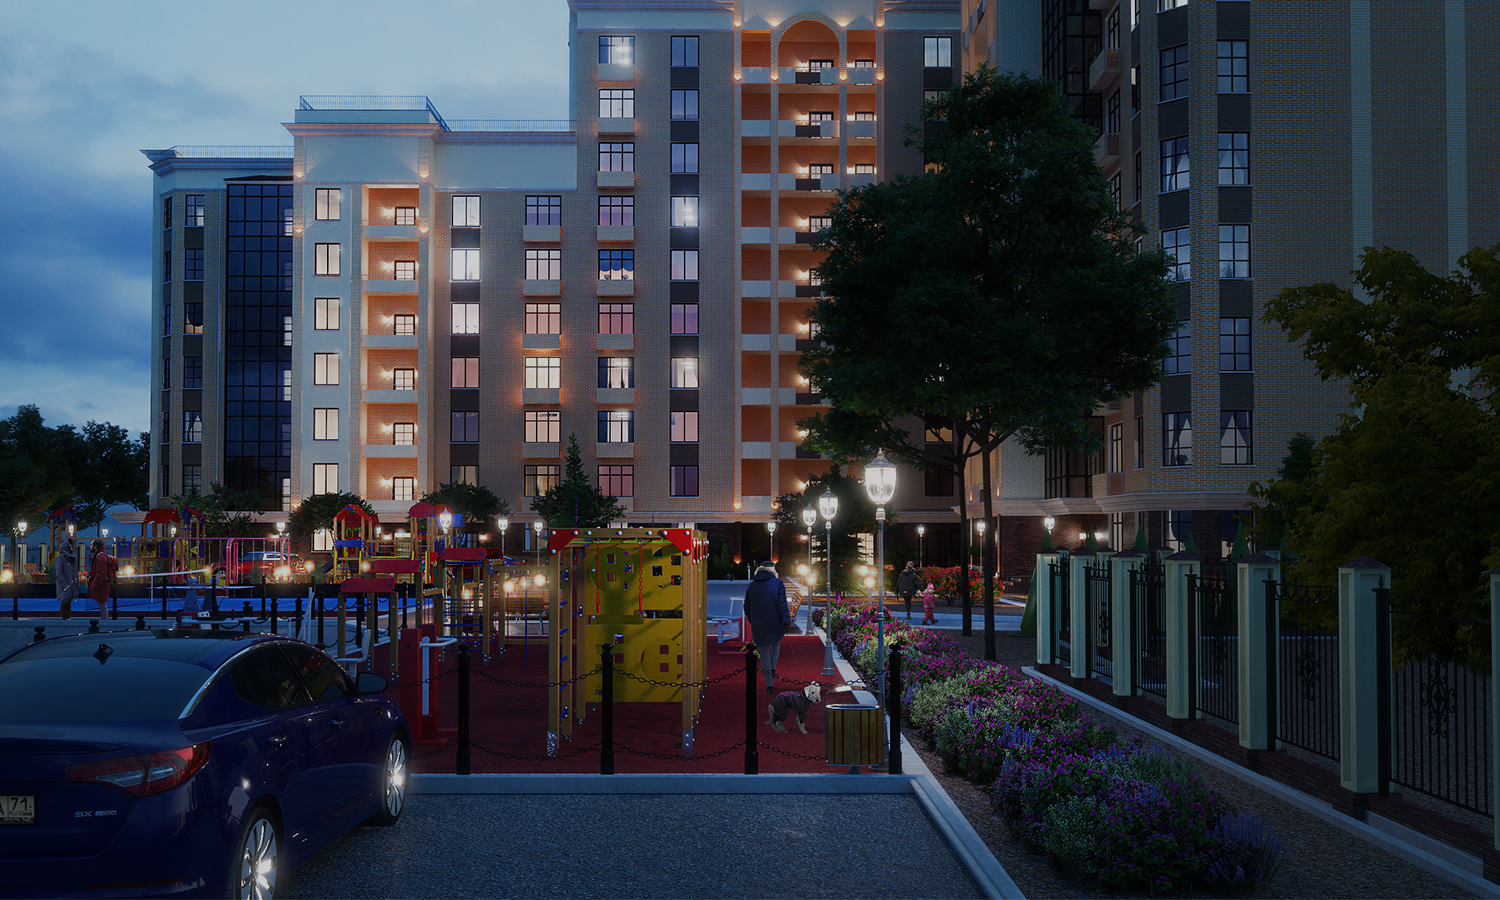
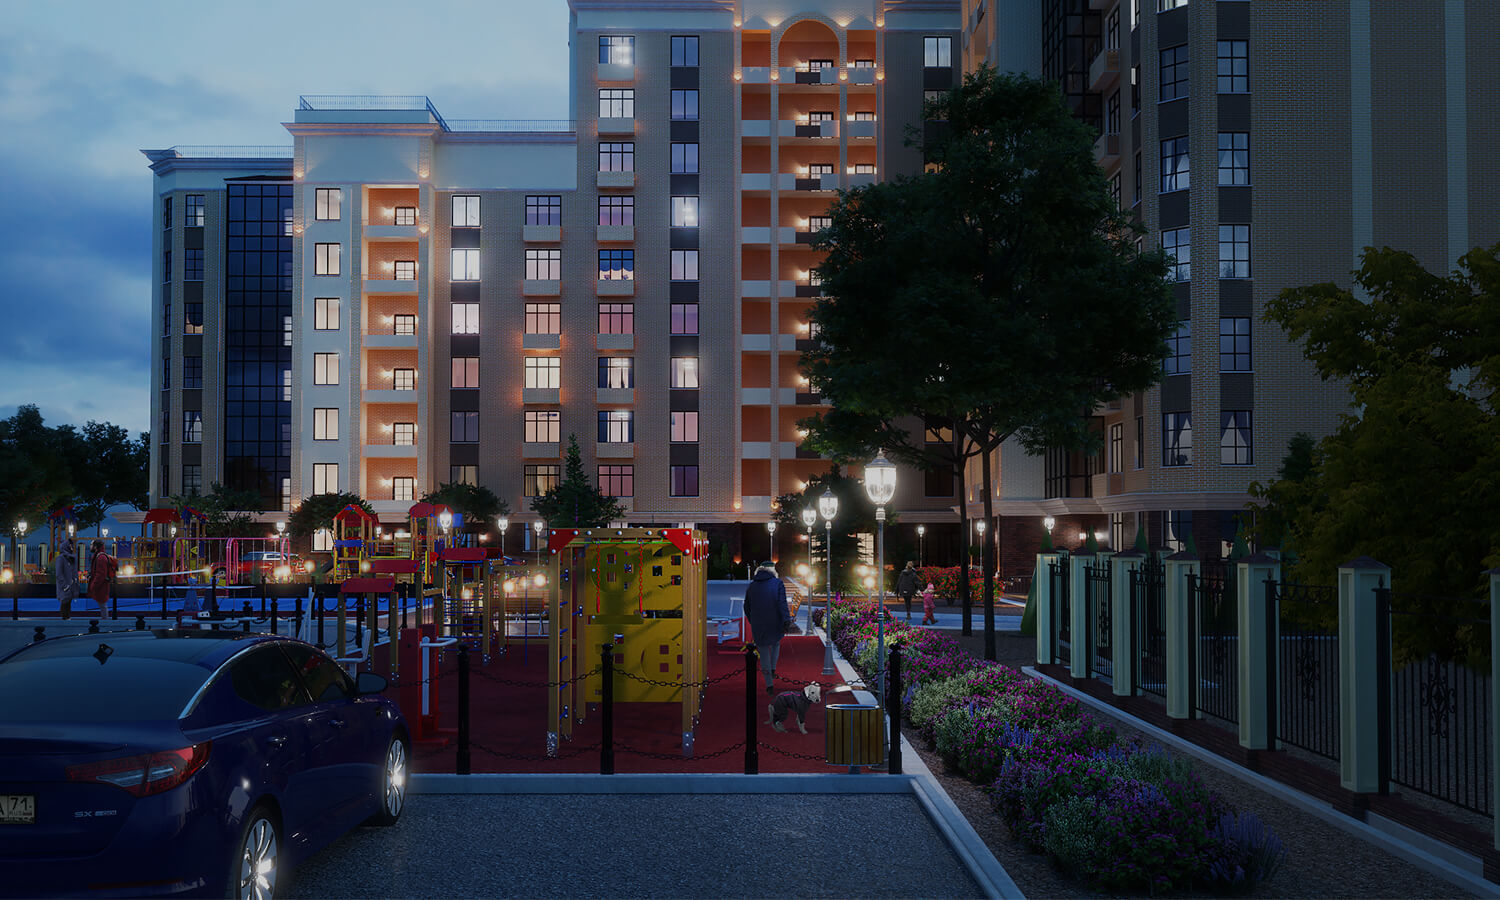
Create inner page - flat & quarter. Compress bg carousel image. Del @2x bg image. Create inner carousel bg for flat & quarter.

diff --git a/src/js/main.js b/src/js/main.js
@@ -245,7 +245,9 @@ $(document).ready(function(){
       [data-js='carousel-commercial-js'],
       [data-js='carousel-storerooms-js'],
       [data-js='carousel-earth-js'],
-      [data-js='carousel-parking-js']
+      [data-js='carousel-parking-js'],
+      [data-js='carousel-quarter-js'],
+      [data-js='carousel-flat-js']
     `;
     const sliderLocationName = `
       [data-js='slider-apartment-js'],

diff --git a/src/sass/components/_banner.sass b/src/sass/components/_banner.sass
@@ -4,6 +4,9 @@
   position: relative
   min-height: 900px
 
+  &--inner
+    min-height: 780px
+
 
   &__gradient
     z-index: 0
